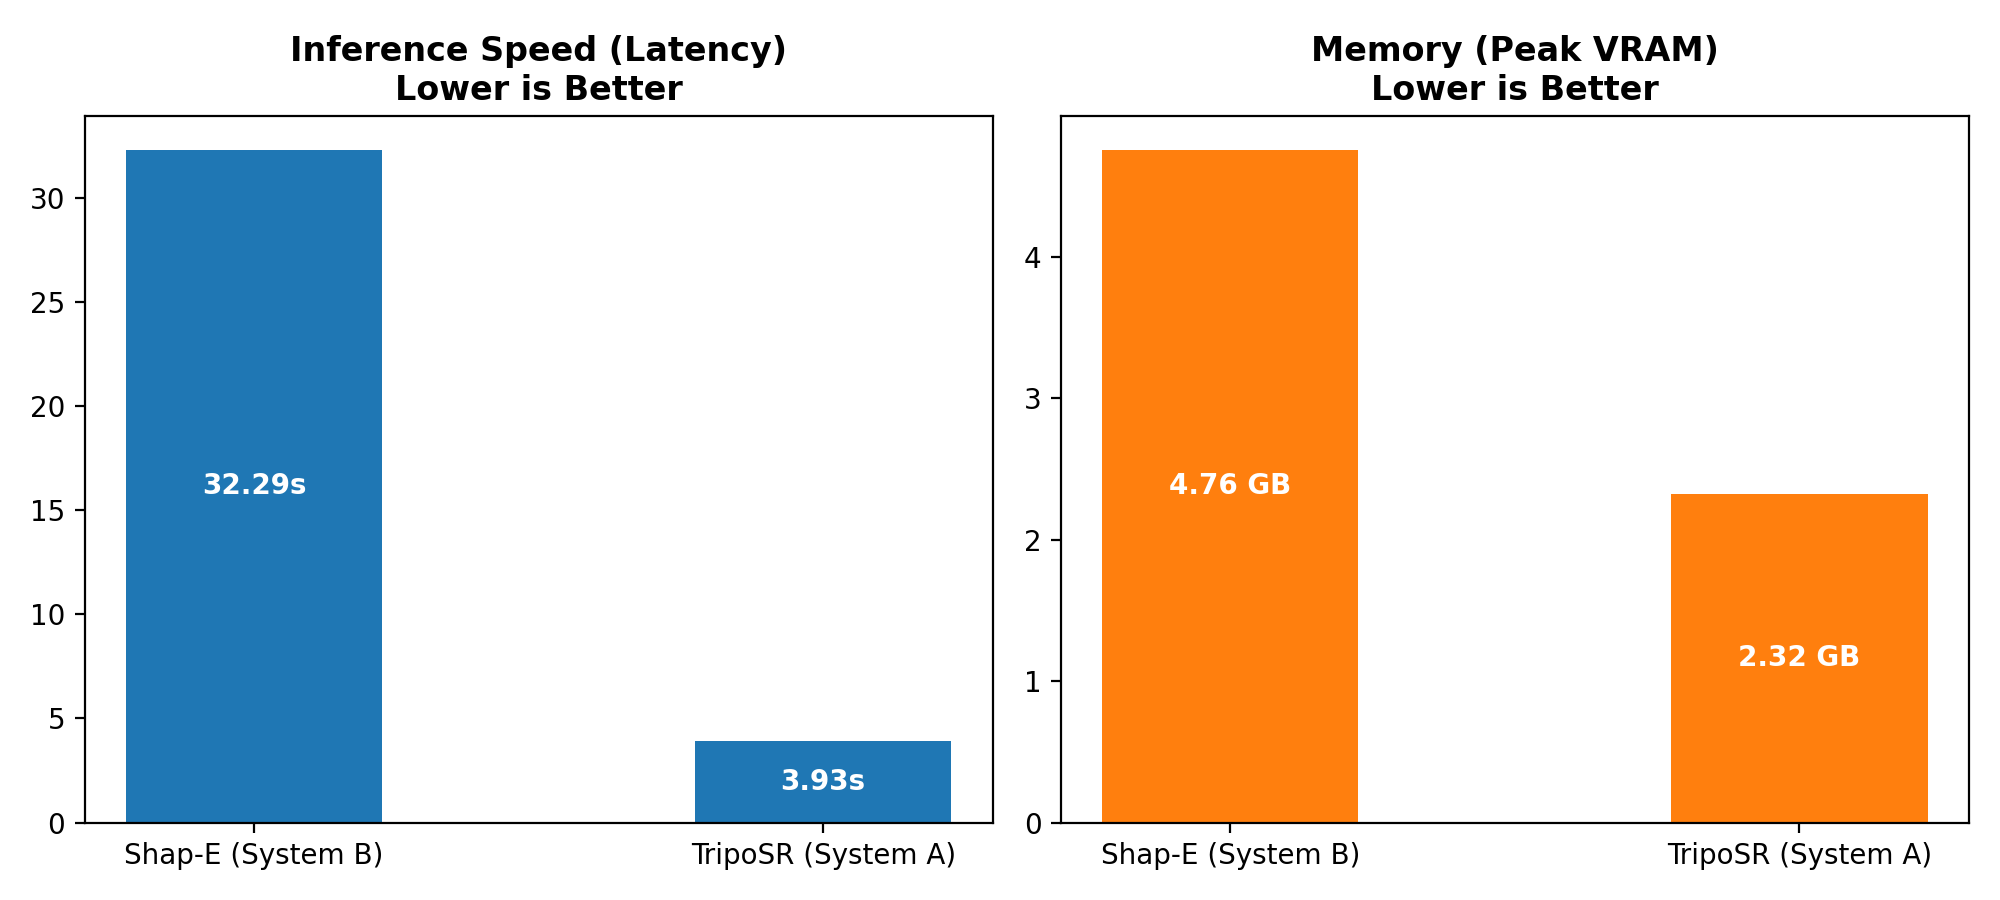
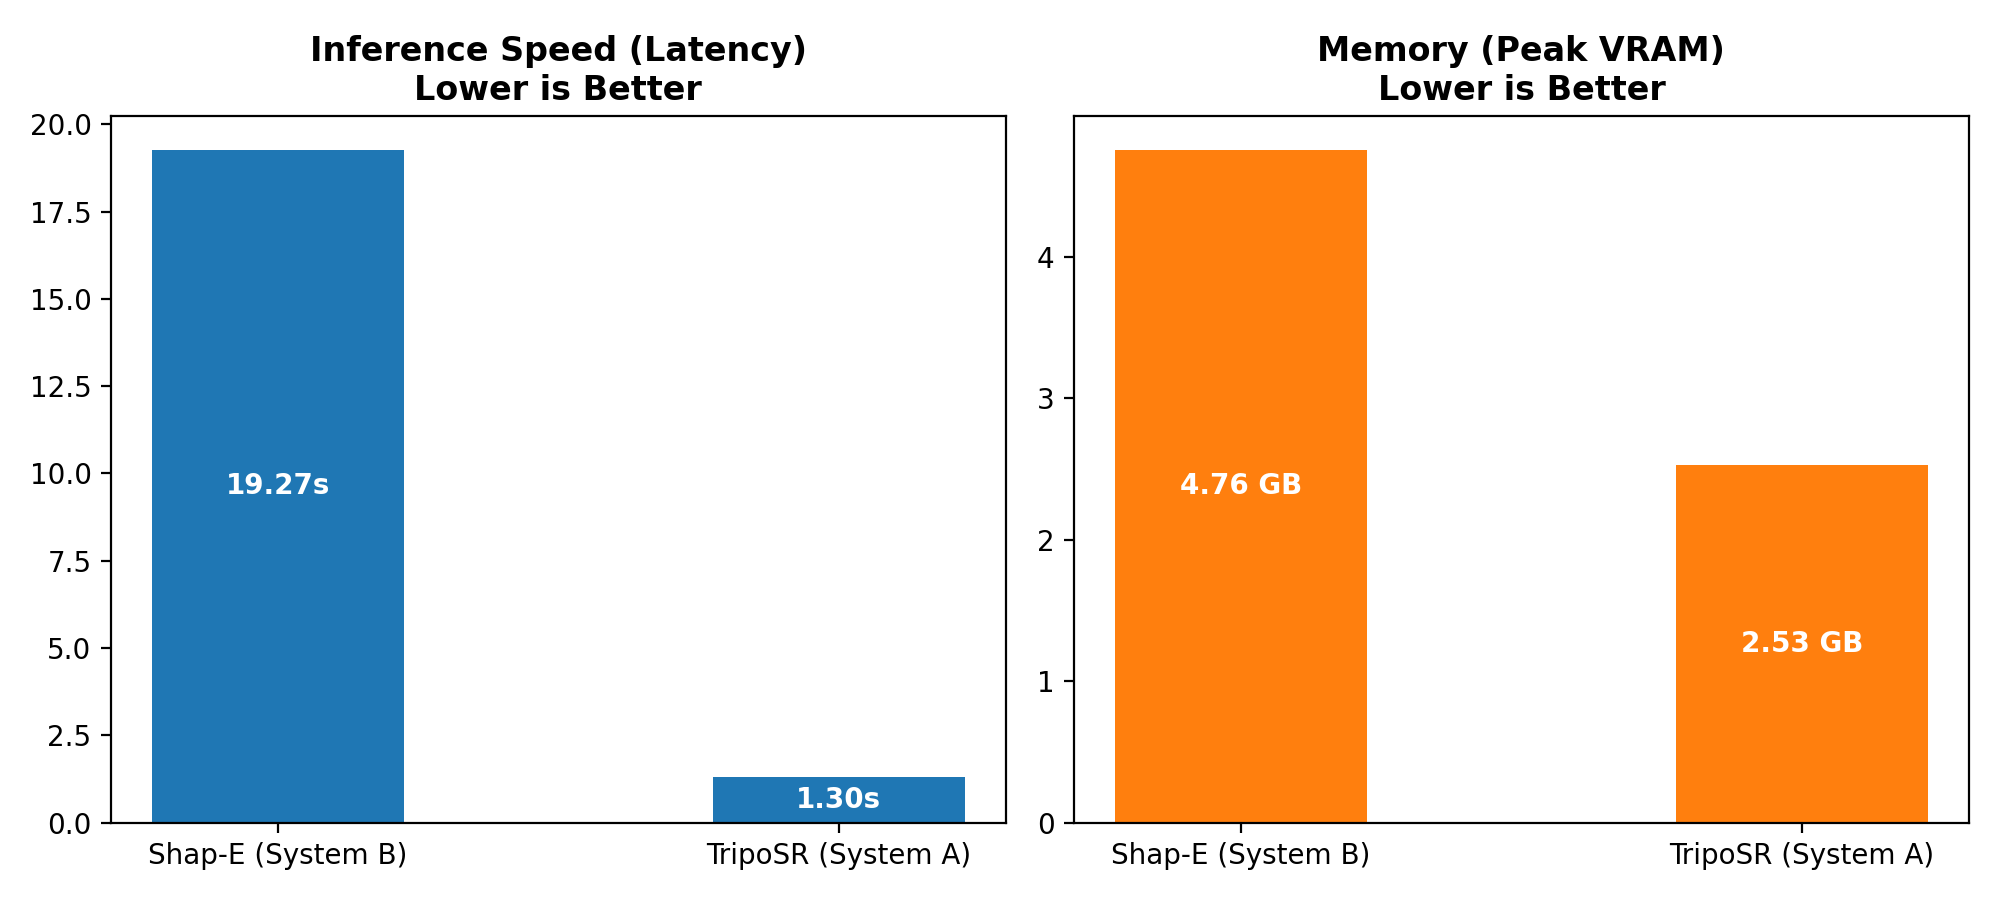
Fixed errors for 3D generation model

diff --git a/src/models/pair2_models.py b/src/models/pair2_models.py
@@ -1,61 +1,69 @@
 import sys
 import os
 import time
-import torch
+import types
 from pathlib import Path
 from PIL import Image
-from shap_e.diffusion.sample import sample_latents
-from shap_e.diffusion.gaussian_diffusion import diffusion_from_config
-from shap_e.models.download import load_model, load_config
-from shap_e.util.notebooks import decode_latent_mesh
-import types
+import torch
 import mcubes
 
-
-# Add TripoSR directory to sys.path so 'tsr' is importable
-triposr_path = Path("/content/TripoSR")
-if not triposr_path.exists():
-    triposr_path = Path("./TripoSR")  # Fallback for local path
-
-if str(triposr_path) not in sys.path:
-    sys.path.insert(0, str(triposr_path))
-
-# Create a mock torchmcubes module dynamically in memory
 mock_torchmcubes = types.ModuleType("torchmcubes")
 
 def custom_marching_cubes(volume, threshold=0.0):
     """Drop-in replacement for torchmcubes using PyMCubes."""
     if isinstance(volume, torch.Tensor):
         vol_np = volume.detach().cpu().numpy()
+        device = volume.device
     else:
         vol_np = volume
+        device = "cpu"
         
-    vertices, triangles = mcubes.marching_cubes(vol_np, threshold)
+    vertices, triangles = mcubes.marching_cubes(vol_np, float(threshold))
     
-    verts_tensor = torch.from_numpy(vertices.astype("float32")).to(volume.device if isinstance(volume, torch.Tensor) else "cpu")
-    faces_tensor = torch.from_numpy(triangles.astype("int64")).to(volume.device if isinstance(volume, torch.Tensor) else "cpu")
+    verts_tensor = torch.from_numpy(vertices.astype("float32")).to(device)
+    faces_tensor = torch.from_numpy(triangles.astype("int64")).to(device)
     return verts_tensor, faces_tensor
 
 mock_torchmcubes.marching_cubes = custom_marching_cubes
 sys.modules["torchmcubes"] = mock_torchmcubes
 
-print("torchmcubes mock registered successfully! TripoSR can now run without compilation errors.")
+CURRENT_FILE = Path(__file__).resolve()
 
+# Navigates from src/models/pair2_models.py -> COMP8410_A1/TripoSR
+TRIPOSR_DIR = CURRENT_FILE.parents[2] / "TripoSR"
 
-# Now this import will succeed
-from tsr.system import TSR
+if TRIPOSR_DIR.exists() and str(TRIPOSR_DIR) not in sys.path:
+    sys.path.insert(0, str(TRIPOSR_DIR))
+
+try:
+    from tsr.system import TSR
+    from tsr.utils import remove_background, resize_foreground
+except ImportError:
+    # Fallback if installed via pip / standard package
+    from tsr.system import TSR
+    remove_background = None
+    resize_foreground = None
+
+from shap_e.diffusion.sample import sample_latents
+from shap_e.diffusion.gaussian_diffusion import diffusion_from_config
+from shap_e.models.download import load_model, load_config
+from shap_e.util.notebooks import decode_latent_mesh
 
 
 def run_triposr(cases, raw_dir, out_dir, device="cuda"):
-
     out_dir = Path(out_dir)
     raw_dir = Path(raw_dir)
     out_dir.mkdir(parents=True, exist_ok=True)
 
     print(f"\n[Model A: TripoSR] Initializing model on {device}...")
-    model = TSR.from_pretrained("stabilityai/TripoSR", config_name="config.yaml", weight_name="model.ckpt")
+    model = TSR.from_pretrained(
+        "stabilityai/TripoSR", 
+        config_name="config.yaml", 
+        weight_name="model.ckpt"
+    )
     model.renderer.set_chunk_size(8192)
     model.to(device)
+    model.eval()
 
     results = {}
 
@@ -68,14 +76,42 @@ def run_triposr(cases, raw_dir, out_dir, device="cuda"):
         print(f"  -> [TripoSR] Processing Case {idx+1}/{len(cases)}: {img_name}")
         image = Image.open(input_path).convert("RGB")
 
+        # TripoSR expects a segmented foreground object (RGBA)
+        # Background segmentation + 3-channel solid backdrop
+        if remove_background is not None:
+            image = remove_background(image, rembg_session=None)
+            image = resize_foreground(image, ratio=0.85)
+            if image.mode == "RGBA":
+                bg = Image.new("RGBA", image.size, (127, 127, 127, 255))
+                bg.paste(image, mask=image.split()[3])
+                image = bg.convert("RGB")
+        else:
+            image = image.convert("RGB")
+
         if device == "cuda":
             torch.cuda.reset_peak_memory_stats()
             torch.cuda.synchronize()
         t0 = time.time()
 
+        # Optimization 2: Float16 Autocast & Optimization 3: Optimal Marching Cubes grid (160)
         with torch.no_grad():
-            scene_codes = model([image], device=device) 
-            meshes = model.extract_mesh(scene_codes, True, resolution=256, threshold=25.0)
+            # 1. Generate scene codes (cast to float32 after inference)
+            with torch.autocast(device_type="cuda", dtype=torch.float16, enabled=(device == "cuda")):
+                scene_codes = model([image], device=device)
+            
+            # Match data types for F.grid_sample
+            if isinstance(scene_codes, torch.Tensor):
+                scene_codes = scene_codes.float()
+            elif isinstance(scene_codes, (list, tuple)):
+                scene_codes = [sc.float() if isinstance(sc, torch.Tensor) else sc for sc in scene_codes]
+
+            # 2. Extract polygonal mesh using resolution=160
+            meshes = model.extract_mesh(
+                scene_codes, 
+                has_vertex_color=True, 
+                resolution=160, 
+                threshold=25.0
+            ) 
 
         if device == "cuda":
             torch.cuda.synchronize()
@@ -93,9 +129,7 @@ def run_triposr(cases, raw_dir, out_dir, device="cuda"):
 
     return results
 
-
 def run_shape(cases, raw_dir, out_dir, device="cuda"):
-
     out_dir = Path(out_dir)
     raw_dir = Path(raw_dir)
     out_dir.mkdir(parents=True, exist_ok=True)
@@ -132,7 +166,7 @@ def run_shape(cases, raw_dir, out_dir, device="cuda"):
                 clip_denoised=True,
                 use_fp16=(device == "cuda"),
                 use_karras=True,
-                karras_steps=64,
+                karras_steps=36,
                 sigma_min=1e-3,
                 sigma_max=160,
                 s_churn=0,
